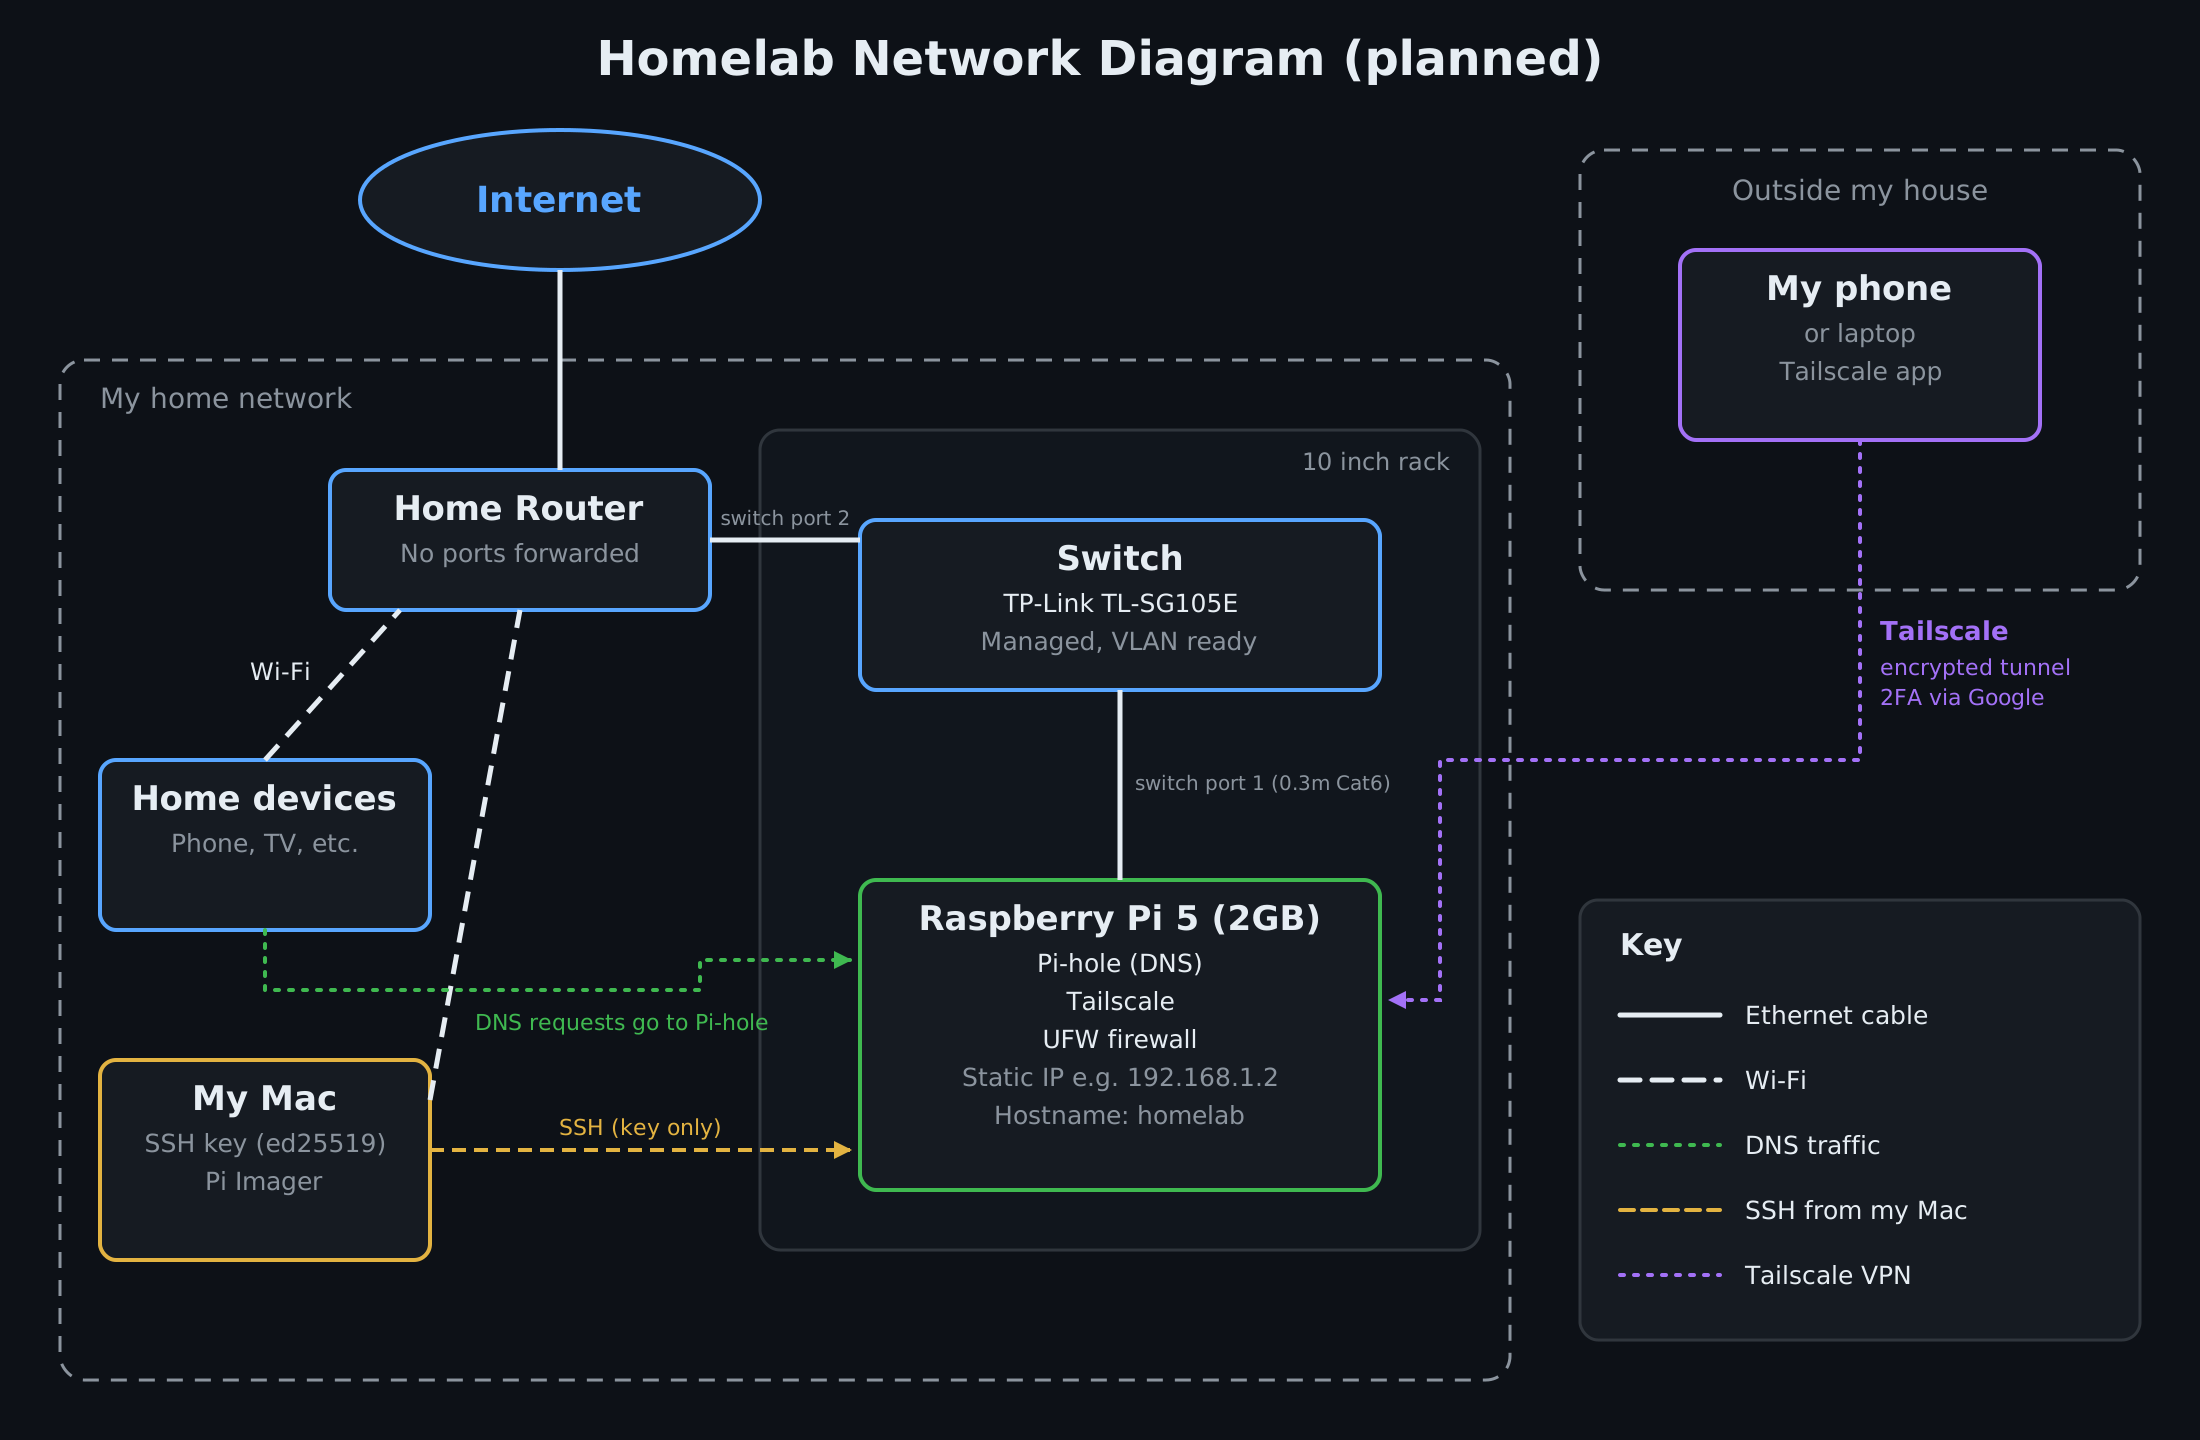
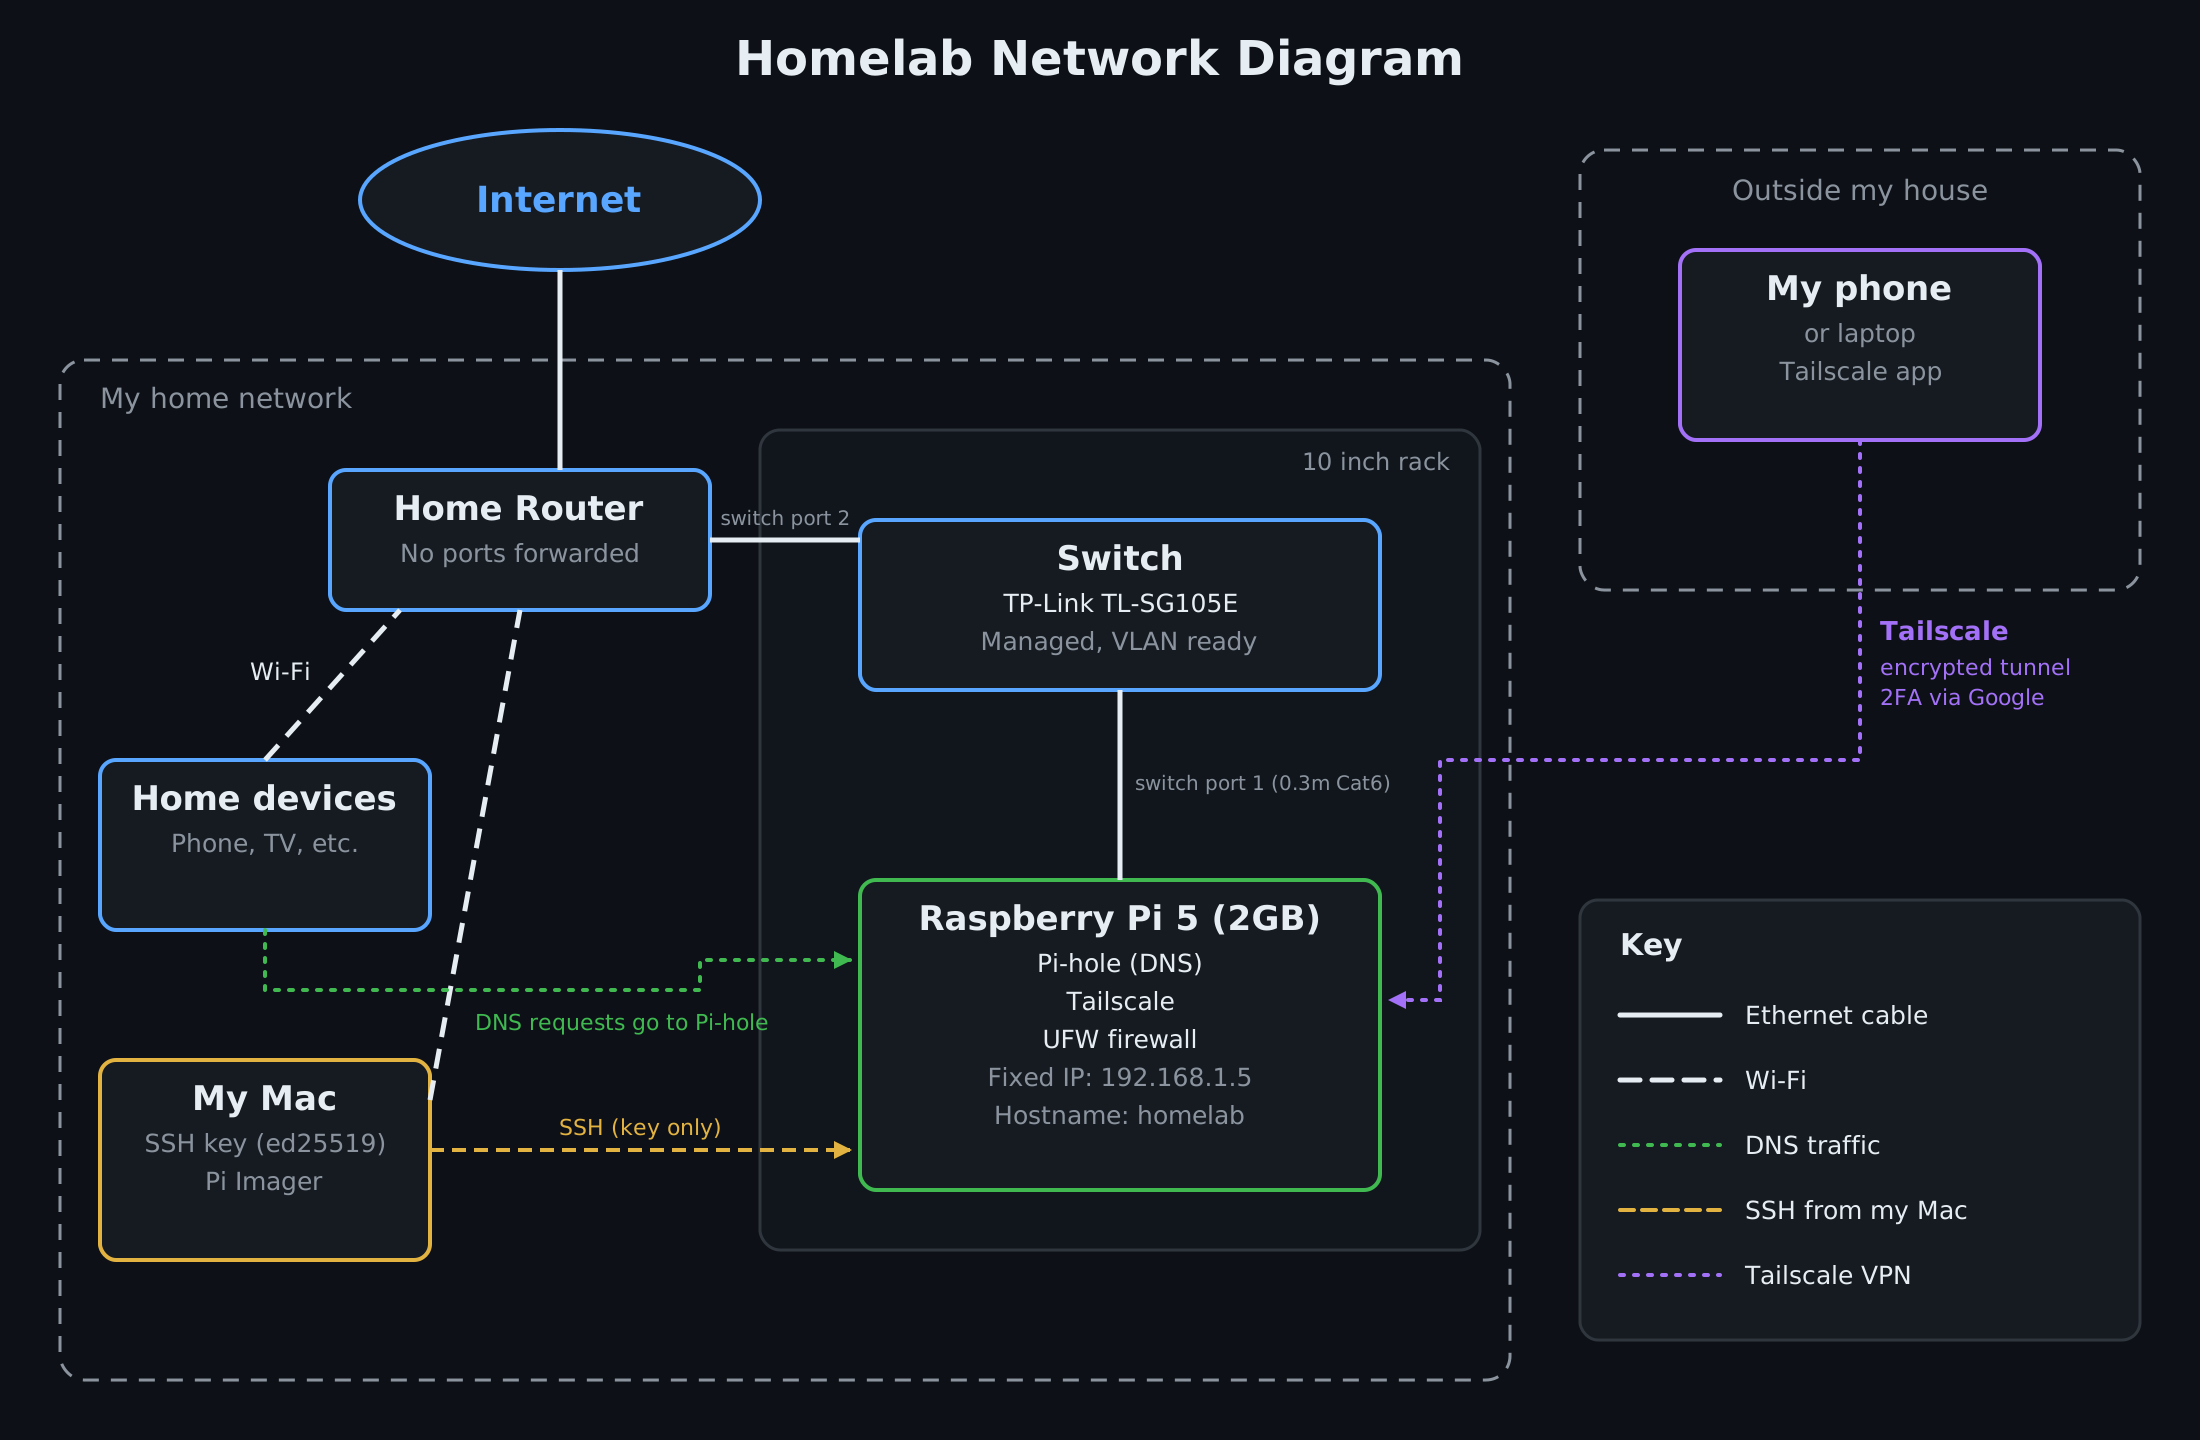
Add Pi-hole, firewall and Tailscale setup

Changed region(s): [[0.2782, 0.0312, 0.7418, 0.0625], [0.4327, 0.7188, 0.5564, 0.75]]

diff --git a/build-log.md b/build-log.md
@@ -2,6 +2,23 @@
 
 Notes on how the build is going, including anything that goes wrong and how I fix it. Newest at the top.
 
+## 17 October 2026
+
+- Plugged the Pi in through a TP-Link instead of straight into the router. It still worked, but SSH said `Permission denied (publickey)` again.
+- Worked out why with `ssh-keygen -lf` and `ssh -v`: the key my Mac was offering didn't match the one on the Pi. I'd run `ssh-copy-id` before making my new key, so the Pi had my old one. With password login turned off I was locked out, which is the security setting working properly.
+- Reflashed the card and did it in the right order this time: log in with password, `ssh-copy-id`, check key login works, then turn password login off.
+- Updated everything with `sudo apt update && sudo apt full-upgrade`.
+- Set up the UFW firewall: block everything coming in by default, and only allow SSH from my home network (`192.168.1.0/24`).
+- Turned on automatic security updates with `unattended-upgrades`.
+- Gave the Pi a fixed IP (`192.168.1.5`) with `nmcli`. I couldn't reserve it on my EE hub because the Pi didn't show up in the hub's device list behind the TP-Link. The hub hands out `.10` to `.253`, so `.5` can't clash with anything.
+- Installed Pi-hole. Downloaded the install script and read it first instead of piping it straight into bash. Opened DNS (port 53) and the admin page (80/443) to my home network only.
+- Tested Pi-hole on my Mac first. `dig doubleclick.net @192.168.1.5` gave back `0.0.0.0` and the ads were blocked.
+- Installed Tailscale and allowed SSH and the Pi-hole admin page over Tailscale only. Tested from my phone on mobile data and the dashboard loaded, with no ports forwarded on my router.
+
+**Lessons:** make the SSH key once, save the passphrase in a password manager, and only turn password login off after key login works.
+
+**Next:** Nmap scan to check only the ports I opened are showing, use Pi-hole for the whole house, and fit everything in the rack.
+
 ## 16 October 2026
 
 - Flashed Raspberry Pi OS Lite (64-bit) onto the SD card with Raspberry Pi Imager 2.0. Set the hostname to `homelab`, made my own user, left Wi-Fi off (the Pi uses Ethernet) and turned on SSH with key login only.

diff --git a/security-plan.md b/security-plan.md
@@ -3,6 +3,22 @@
 How I plan to keep my homelab secure. I'll update this as I build it and
 learn more.
 
+## Status (17 October 2026)
+
+- [x] Tailscale for remote access, with no port forwarding on my router
+- [x] SSH keys only, password login over SSH turned off and tested
+- [x] UFW blocks everything coming in except what's needed:
+  - SSH from my home network and over Tailscale
+  - DNS (53) from my home network for Pi-hole
+  - Pi-hole admin page (80/443) from my home network and over Tailscale
+- [x] Pi-hole admin page has a password
+- [x] Automatic security updates (`unattended-upgrades`)
+- [x] Fixed IP for the Pi (`192.168.1.5`)
+- [ ] Back up Pi-hole with Teleporter
+- [ ] Nmap scan from another device
+- [ ] VLANs on the managed switch
+- [ ] Fail2ban
+
 ## What I'm protecting against
 
 - Someone accessing my Pi from the internet

diff --git a/README.md b/README.md
@@ -52,6 +52,12 @@ The DeskPi RackMate T0 with the shelf and blank panel in. The Pi and switch go i
 - [x] Design rack layout
 - [x] Write security plan
 - [x] Buy parts
-- [ ] Build it
+- [x] Flash the SD card and set up SSH with keys
+- [x] Firewall (UFW) and automatic security updates
+- [x] Pi-hole (tested on my Mac)
+- [x] Tailscale remote access
+- [ ] Pi-hole for the whole house
+- [ ] Security testing (Nmap scan)
+- [ ] Fit everything in the rack
       
 I'll keep this updated as I go.
